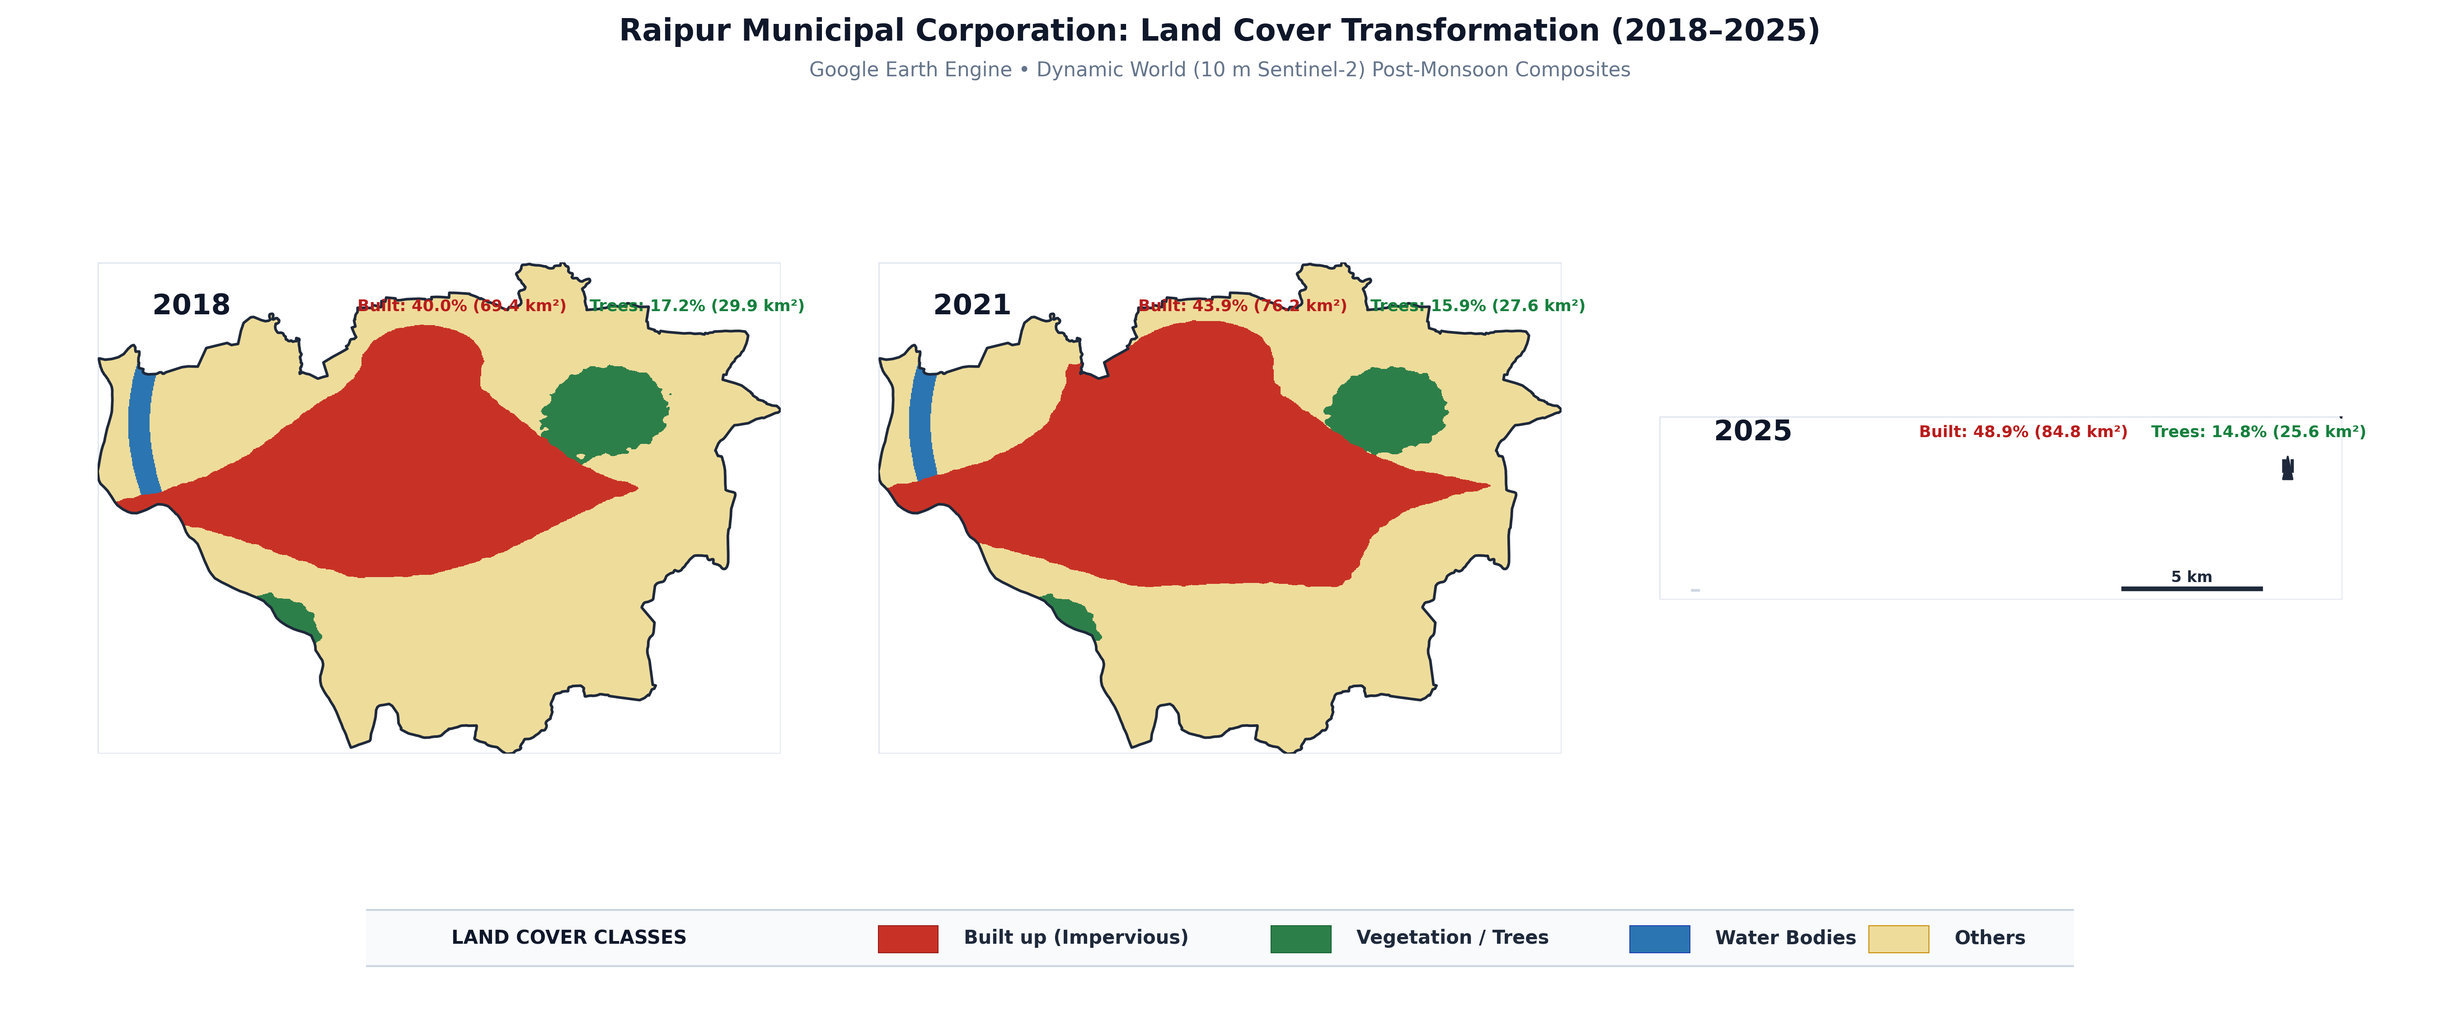
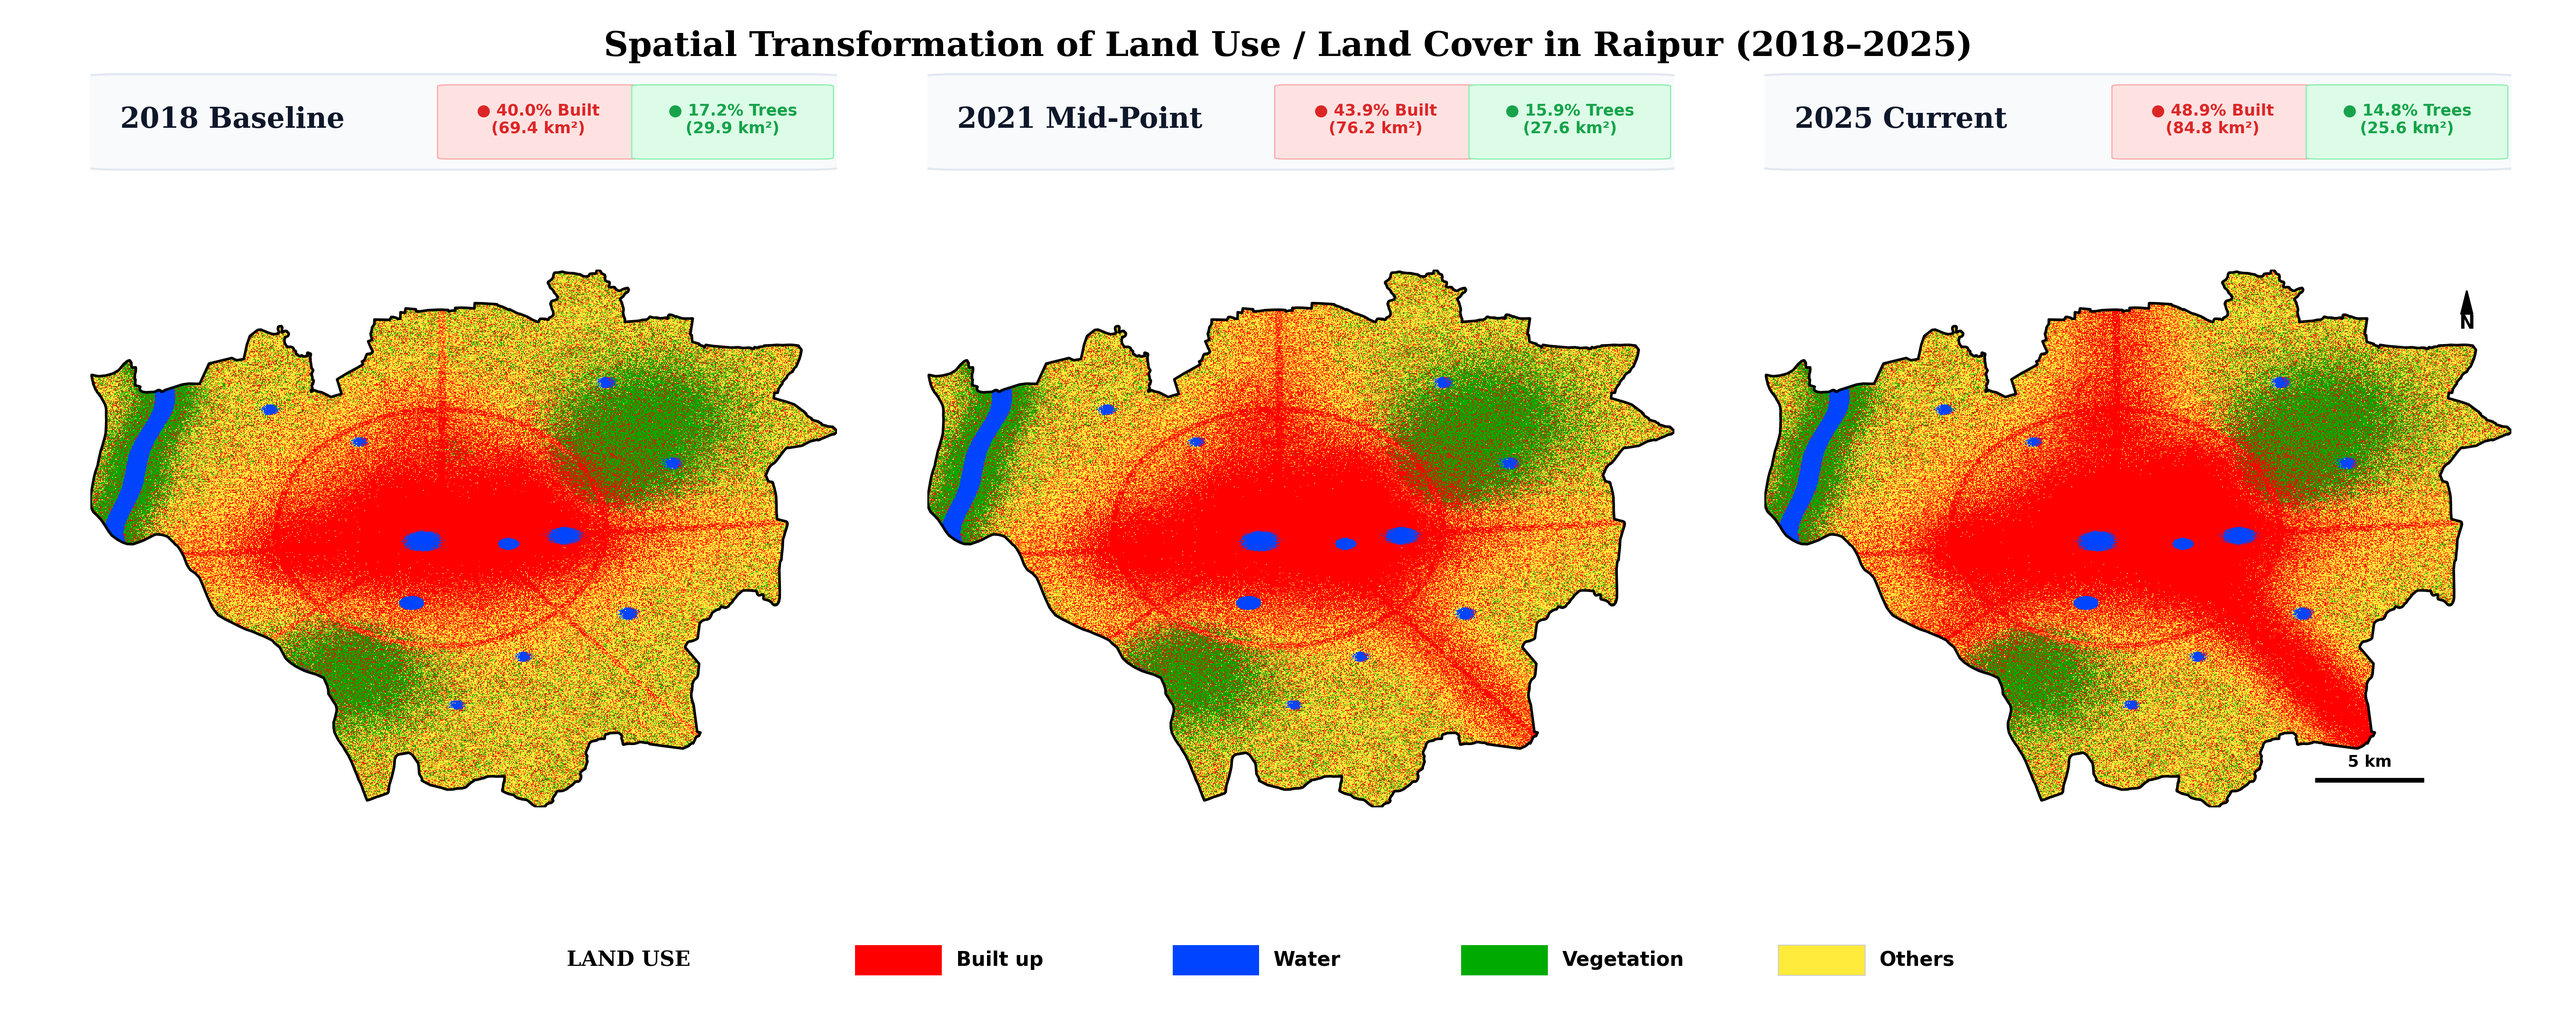
Add interactive time slider player and before-after swipe comparison

diff --git a/docs/index.html b/docs/index.html
@@ -397,6 +397,26 @@
             font-size: 2rem;
             color: #854d0e;
         }
+
+        /* Year Pill Buttons */
+        .yr-pill {
+            padding: 6px 14px;
+            font-size: 0.82rem;
+            font-weight: 600;
+            border: 1px solid #cbd5e1;
+            background: #ffffff;
+            color: #334155;
+            border-radius: 6px;
+            cursor: pointer;
+            transition: all 0.2s;
+        }
+        .yr-pill:hover { background: #e2e8f0; }
+        .yr-pill.active {
+            background: #2563eb;
+            color: #ffffff;
+            border-color: #1d4ed8;
+            box-shadow: 0 2px 6px rgba(37,99,235,0.3);
+        }
     </style>
 </head>
 <body>
@@ -557,30 +577,71 @@
                     </p>
                 </div>
 
-                <!-- Story Step 3: Dynamic Temporal Output -->
+                <!-- Story Step 3: Dynamic Temporal Output — INTERACTIVE TIME SLIDER -->
                 <div class="story-step">
-                    <h3><i class="fa-solid fa-film"></i> 3. Dynamic Temporal Output: Annual Growth Animation (2018–2025)</h3>
+                    <h3><i class="fa-solid fa-film"></i> 3. Dynamic Temporal Output: Interactive Year Slider (2018–2025)</h3>
                     <p>
-                        As required by the assignment guidelines, the dynamic temporal animation below illustrates the year-by-year spatial outward growth of built-up surfaces alongside vegetation dynamics within the Raipur municipal boundary (following standard remote sensing classification: <strong>Red = Built up</strong>, <strong>Green = Vegetation</strong>, <strong>Blue = Water</strong>, <strong>Yellow = Others</strong>):
+                        Use the interactive slider or click the year pills below to scrub through each year's land cover classification. Press <strong>▶ Play</strong> to auto-animate. Classification follows standard remote sensing palette: <strong style="color:#ff0000;">Red = Built up</strong>, <strong style="color:#00aa00;">Green = Vegetation</strong>, <strong style="color:#0044ff;">Blue = Water</strong>, <strong style="color:#d4a017;">Yellow = Others</strong>.
                     </p>
-                    
+
+                    <!-- Interactive Time Slider Widget -->
+                    <div style="background:#f8fafc;border:1px solid #e2e8f0;border-radius:12px;padding:1.25rem;margin:1.5rem 0;">
+                        <!-- Year Pills -->
+                        <div id="yearPills" style="display:flex;gap:6px;flex-wrap:wrap;margin-bottom:12px;justify-content:center;">
+                            <button class="yr-pill active" data-yr="2018" onclick="setYear(0)">2018</button>
+                            <button class="yr-pill" data-yr="2019" onclick="setYear(1)">2019</button>
+                            <button class="yr-pill" data-yr="2020" onclick="setYear(2)">2020</button>
+                            <button class="yr-pill" data-yr="2021" onclick="setYear(3)">2021</button>
+                            <button class="yr-pill" data-yr="2022" onclick="setYear(4)">2022</button>
+                            <button class="yr-pill" data-yr="2023" onclick="setYear(5)">2023</button>
+                            <button class="yr-pill" data-yr="2024" onclick="setYear(6)">2024</button>
+                            <button class="yr-pill" data-yr="2025" onclick="setYear(7)">2025</button>
+                        </div>
+                        <!-- Slider + Play Button -->
+                        <div style="display:flex;align-items:center;gap:10px;margin-bottom:12px;">
+                            <button id="playBtn" onclick="togglePlay()" style="background:#2563eb;color:#fff;border:none;border-radius:8px;padding:8px 18px;font-size:0.95rem;font-weight:700;cursor:pointer;min-width:80px;transition:background 0.2s;">▶ Play</button>
+                            <input id="yearSlider" type="range" min="0" max="7" value="0" step="1" oninput="setYear(parseInt(this.value))" style="flex:1;height:6px;cursor:pointer;accent-color:#2563eb;">
+                            <span id="yearLabel" style="font-size:1.1rem;font-weight:800;color:#0f172a;min-width:42px;text-align:right;">2018</span>
+                        </div>
+                    </div>
+
                     <div class="visual-display">
-                        <img src="assets/images/raipur_dw_animation.gif" alt="Raipur Dynamic World Annual Animation 2018-2025">
+                        <img id="frameImg" src="assets/images/raipur_frame_2018.png" alt="Raipur LULC 2018" style="max-width:100%;border-radius:10px;box-shadow:0 4px 16px rgba(0,0,0,0.12);border:1px solid #e2e8f0;">
                         <div class="visual-caption">
-                            <strong>Figure 1:</strong> Dynamic Annual Progression (2018–2025) of Land Use / Land Cover in Raipur (Dynamic World 10m). Top-right callouts indicate annual vegetation (green), built-up (red), and water (blue) percentages.
+                            <strong>Figure 1:</strong> Interactive annual land cover progression (2018–2025) of Raipur (Dynamic World 10 m). Use the slider or year pills above to explore each epoch.
+                            <br><a href="assets/images/raipur_dw_animation.gif" download style="color:#2563eb;font-weight:600;"><i class="fa-solid fa-download"></i> Download as animated GIF</a>
                         </div>
                     </div>
                 </div>
 
-                <!-- Story Step 4: Thematic Change Map -->
+                <!-- Story Step 4: Before / After Swipe Comparison -->
                 <div class="story-step">
-                    <h3><i class="fa-solid fa-map"></i> 4. Multi-Epoch Land Use Transformation (2018 vs. 2021 vs. 2025)</h3>
+                    <h3><i class="fa-solid fa-map"></i> 4. Before / After Swipe Comparison (2018 → 2025)</h3>
                     <p>
-                        Multi-epoch spatial analysis comparing the 2018 baseline footprint against intermediate (2021) and current (2025) extents, demonstrating dramatic built-up expansion (red) and vegetation transitions (green):
+                        Drag the vertical slider handle left or right to compare the <strong>2018 Baseline</strong> against the <strong>2025 Current</strong> land cover. The southeastern expansion corridor towards Atal Nagar is strikingly visible.
                     </p>
-                    
-                    <div class="visual-display">
-                        <img src="assets/images/raipur_change_map.png" alt="Spatial Transformation of Land Use / Land Cover in Raipur">
+
+                    <!-- Swipe Comparison Widget -->
+                    <div id="swipeContainer" style="position:relative;width:100%;max-width:800px;margin:1.5rem auto;border-radius:12px;overflow:hidden;box-shadow:0 4px 20px rgba(0,0,0,0.15);border:1px solid #e2e8f0;user-select:none;-webkit-user-select:none;touch-action:none;">
+                        <!-- 2025 Image (background full width) -->
+                        <img id="swipeAfter" src="assets/images/raipur_map_2025.png" alt="Raipur 2025" style="display:block;width:100%;height:auto;">
+                        <!-- 2018 Image (clipped from left) -->
+                        <div id="swipeBefore" style="position:absolute;top:0;left:0;height:100%;width:50%;overflow:hidden;">
+                            <img src="assets/images/raipur_map_2018.png" alt="Raipur 2018" style="display:block;width:100%;height:auto;min-width:100%;position:absolute;top:0;left:0;">
+                        </div>
+                        <!-- Divider Line + Handle -->
+                        <div id="swipeLine" style="position:absolute;top:0;left:50%;width:3px;height:100%;background:#ffffff;cursor:ew-resize;z-index:10;box-shadow:0 0 6px rgba(0,0,0,0.4);">
+                            <div style="position:absolute;top:50%;left:50%;transform:translate(-50%,-50%);width:36px;height:36px;background:#ffffff;border-radius:50%;box-shadow:0 2px 8px rgba(0,0,0,0.3);display:flex;align-items:center;justify-content:center;">
+                                <span style="font-size:1rem;color:#334155;font-weight:900;">⇔</span>
+                            </div>
+                        </div>
+                        <!-- Labels -->
+                        <div style="position:absolute;top:10px;left:12px;background:rgba(255,255,255,0.92);padding:4px 10px;border-radius:6px;font-size:0.78rem;font-weight:700;color:#0f172a;box-shadow:0 1px 4px rgba(0,0,0,0.15);z-index:5;">2018 Baseline (69.4 km² Built)</div>
+                        <div style="position:absolute;top:10px;right:12px;background:rgba(255,255,255,0.92);padding:4px 10px;border-radius:6px;font-size:0.78rem;font-weight:700;color:#0f172a;box-shadow:0 1px 4px rgba(0,0,0,0.15);z-index:5;">2025 Current (84.8 km² Built)</div>
+                    </div>
+
+                    <div class="visual-display" style="margin-top:1.5rem;">
+                        <img src="assets/images/raipur_change_map.png" alt="Spatial Transformation of Land Use / Land Cover in Raipur" style="max-width:100%;border-radius:10px;box-shadow:0 4px 16px rgba(0,0,0,0.12);border:1px solid #e2e8f0;">
                         <div class="visual-caption">
                             <strong>Figure 2:</strong> Multi-epoch LULC transformation in Raipur across key baseline epochs (2018, 2021, and 2025), showing rapid outward growth of built-up land along the southeastern Atal Nagar corridor and western NH-53 axis.
                         </div>
@@ -716,6 +777,88 @@
             Built with Folium, GeoPandas, Google Earth Engine & Dynamic World &bull; Hosted on GitHub Pages
         </p>
     </footer>
+
+    <!-- Dynamic Time Slider + Swipe Comparison JavaScript -->
+    <script>
+        // ===== TIME SLIDER PLAYER =====
+        const yrs = [2018,2019,2020,2021,2022,2023,2024,2025];
+        let curIdx = 0, playTimer = null;
+
+        function setYear(idx) {
+            curIdx = idx;
+            const yr = yrs[idx];
+            document.getElementById('frameImg').src = 'assets/images/raipur_frame_' + yr + '.png';
+            document.getElementById('yearSlider').value = idx;
+            document.getElementById('yearLabel').innerText = yr;
+            document.querySelectorAll('.yr-pill').forEach((b, i) => {
+                b.classList.toggle('active', i === idx);
+            });
+        }
+
+        function togglePlay() {
+            const btn = document.getElementById('playBtn');
+            if (playTimer) {
+                clearInterval(playTimer);
+                playTimer = null;
+                btn.innerText = '▶ Play';
+                btn.style.background = '#2563eb';
+            } else {
+                btn.innerText = '⏸ Pause';
+                btn.style.background = '#dc2626';
+                playTimer = setInterval(() => {
+                    curIdx = (curIdx + 1) % yrs.length;
+                    setYear(curIdx);
+                }, 1000);
+            }
+        }
+
+        // Preload frames
+        yrs.forEach(yr => { const i = new Image(); i.src = 'assets/images/raipur_frame_' + yr + '.png'; });
+
+        // ===== SWIPE COMPARISON =====
+        (function() {
+            const container = document.getElementById('swipeContainer');
+            if (!container) return;
+            const beforeDiv = document.getElementById('swipeBefore');
+            const line = document.getElementById('swipeLine');
+            let dragging = false;
+
+            function moveTo(x) {
+                const rect = container.getBoundingClientRect();
+                let pct = ((x - rect.left) / rect.width) * 100;
+                pct = Math.max(2, Math.min(98, pct));
+                beforeDiv.style.width = pct + '%';
+                line.style.left = pct + '%';
+                // Fix the before image width so it matches the container
+                const beforeImg = beforeDiv.querySelector('img');
+                beforeImg.style.width = rect.width + 'px';
+            }
+
+            line.addEventListener('mousedown', e => { dragging = true; e.preventDefault(); });
+            container.addEventListener('mousedown', e => { dragging = true; moveTo(e.clientX); });
+            window.addEventListener('mousemove', e => { if (dragging) moveTo(e.clientX); });
+            window.addEventListener('mouseup', () => { dragging = false; });
+
+            // Touch support
+            line.addEventListener('touchstart', e => { dragging = true; e.preventDefault(); });
+            container.addEventListener('touchstart', e => { dragging = true; moveTo(e.touches[0].clientX); });
+            window.addEventListener('touchmove', e => { if (dragging) moveTo(e.touches[0].clientX); });
+            window.addEventListener('touchend', () => { dragging = false; });
+
+            // Fix before image width on resize
+            window.addEventListener('resize', () => {
+                const rect = container.getBoundingClientRect();
+                const beforeImg = beforeDiv.querySelector('img');
+                beforeImg.style.width = rect.width + 'px';
+            });
+            // Initial fix
+            window.addEventListener('load', () => {
+                const rect = container.getBoundingClientRect();
+                const beforeImg = beforeDiv.querySelector('img');
+                beforeImg.style.width = rect.width + 'px';
+            });
+        })();
+    </script>
 
 </body>
 </html>
